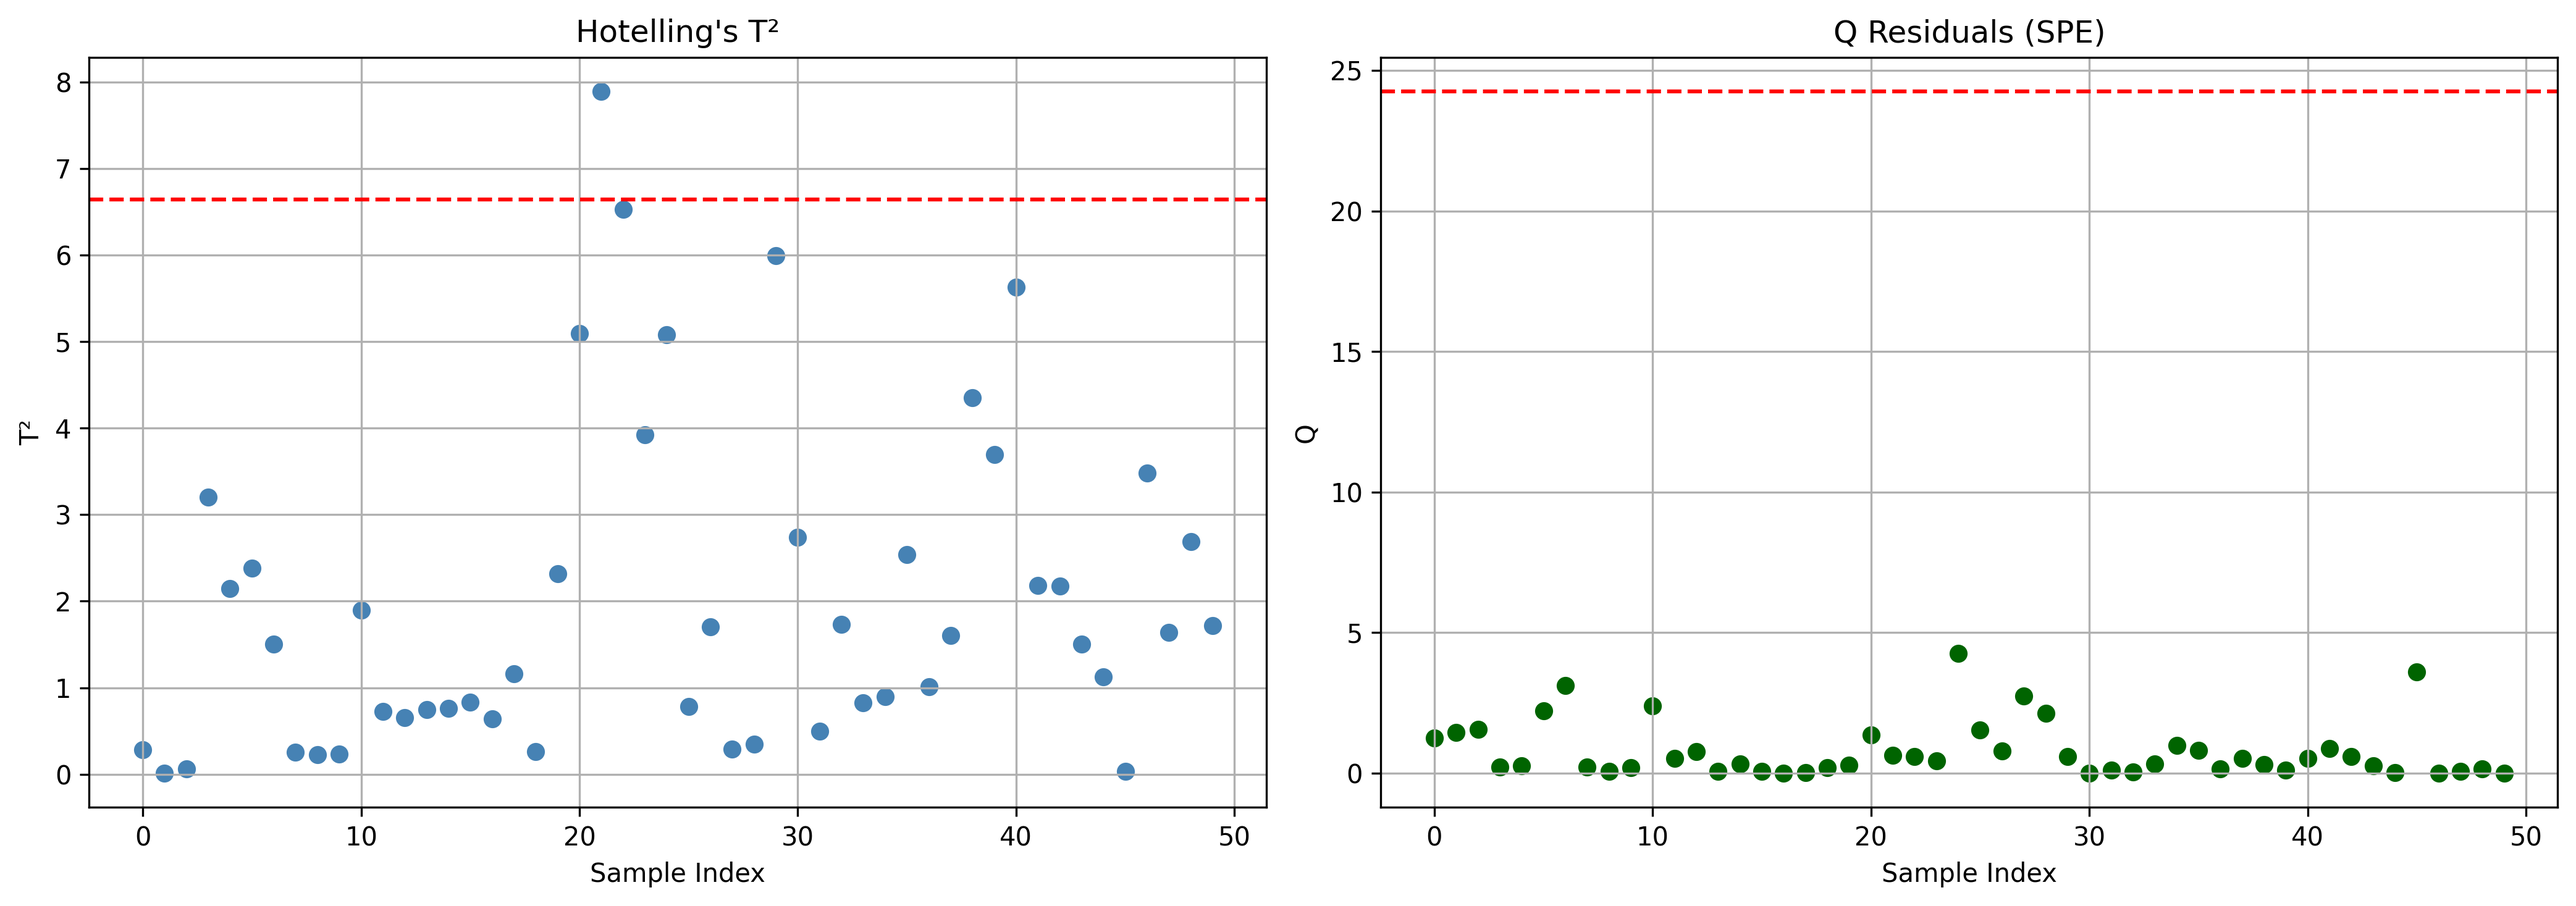
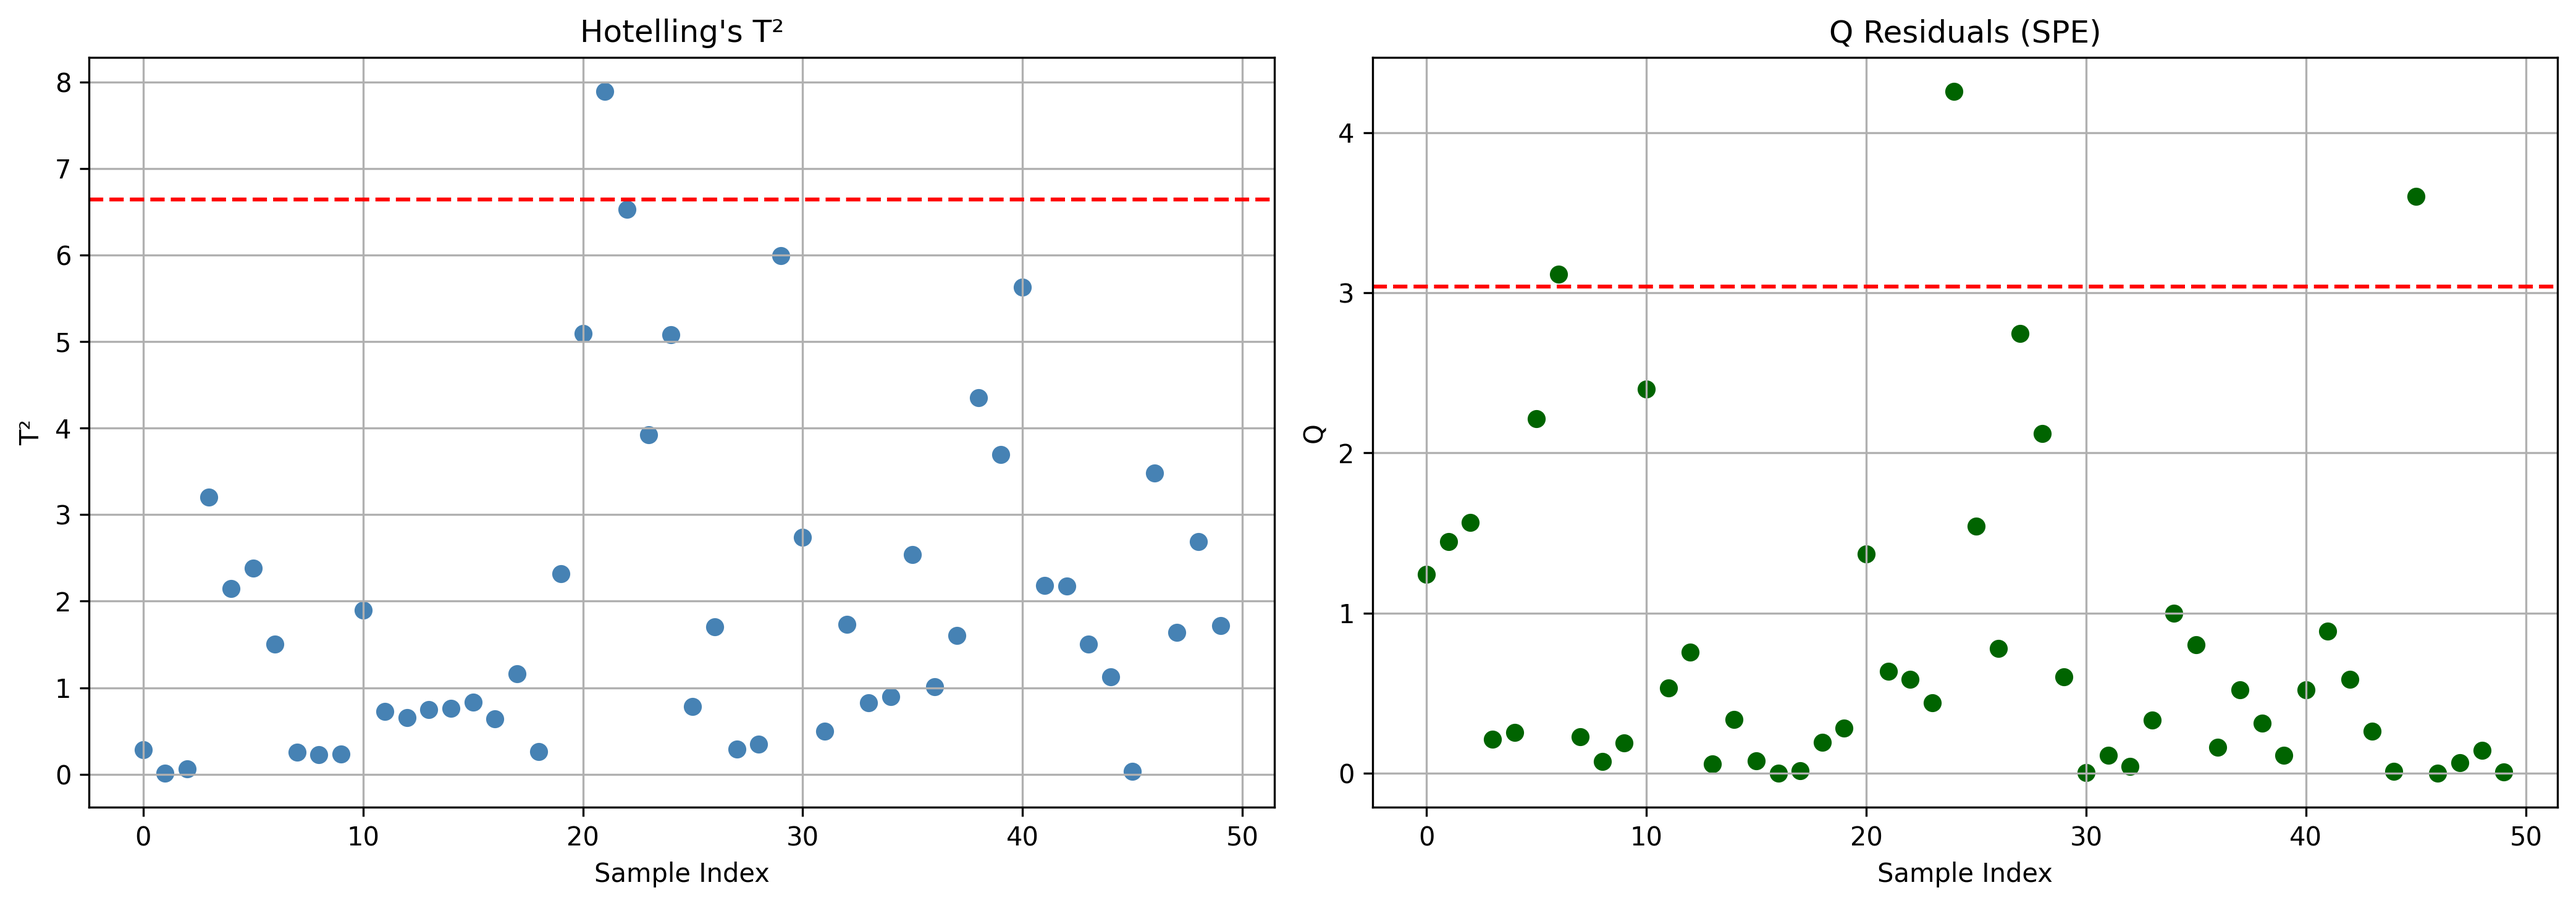
fixed SPE threshold equation

diff --git a/apc/calibration/PCA_eigen.py b/apc/calibration/PCA_eigen.py
@@ -332,7 +332,7 @@ def q_residual_threshold(eigenvalues, n_components, alpha=0.95):
     h0 = 1 - (2 * theta1 * theta3) / (3 * theta2**2)
     z_alpha = norm.ppf(alpha)
 
-    Q_crit = theta1 * ((z_alpha * np.sqrt(2 * theta2) / theta1) + (theta2 * h0 * (h0 - 1)) / (theta1**2) + 1)**(1 / h0)
+    Q_crit = theta1 * (1 + (z_alpha * np.sqrt(2 * theta2 * h0**2) / theta1) + (theta2 * h0 * (h0 - 1)) / (theta1**2))**(1 / h0)
     
     #print(" h0: " , h0)
     #print(" z_alpha: " , z_alpha)
